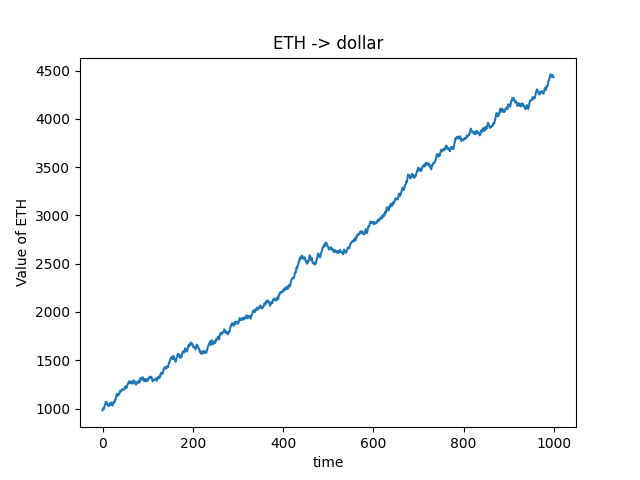
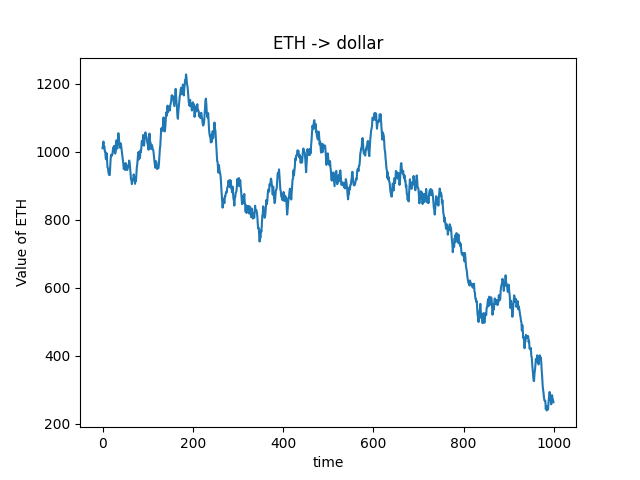
add start sim

diff --git a/simulations/sim1.py b/simulations/sim1.py
@@ -6,56 +6,66 @@ from cadCAD import configs
 import pandas as pd
 import matplotlib.pyplot as plt
 import dataframe_image as dfi
+import csv
 
 exp = Experiment()
 
 genesis_states = {
-    'usr1': 10,
-    'usr2': 10,
-    'usr3': 10,
-    'usr4': 10,
-    'usr5': 10
+    'trader': {'eth':100,'noi':100},
+    'pool_eth': 100000,
+    'pool_noi': 10000000,
 }
 
 
-def update_A(params, step, sH, s, _input):
-    y = 'box_A'
-    add_to_A = 0
-    if (s['box_A'] > s['box_B']):
-        add_to_A = -1
-    elif (s['box_A'] < s['box_B']):
-        add_to_A = 1
-    x = s['box_A'] + add_to_A
-    return (y, x)
+eth_dollar = []
 
+with open('dataset/eth_dollar.csv', 'r') as csvfile:
+    eth_dollar = list(csv.reader(csvfile))[0]
+    eth_dollar = [float(i) for i in eth_dollar]
 
-def update_B(params, step, sH, s, _input):
-    y = 'box_B'
-    add_to_B = 0
-    if (s['box_B'] > s['box_A']):
-        add_to_B = -1
-    elif (s['box_B'] < s['box_A']):
-        add_to_B = 1
-    x = s['box_B'] + add_to_B
-    return (y, x)
+# print(eth_dollar)
+params = {
+    'eth_dollar': eth_dollar,
+}
 
+# print(params)
+
+def get_current_timestep(cur_substep, previous_state):
+    return 1
+    # if cur_substep == 1:
+    #     return previous_state['timestep']+1
+    # return previous_state['timestep']
+
+def update_trader(params, substep, state_history,  previous_state, policy_input):
+    y = 'trader'
+    eth_value = params['eth_dollar'][get_current_timestep(substep, previous_state)]
+    eth_value = 0
+    noi_value = 0
+    if eth_value > 1000:
+        eth_value = eth_value - 1
+        noi_value = noi_value + 1
+    else:
+        eth_value = eth_value + 1
+        noi_value = noi_value - 1
+    return (y, [previous_state['trader']['pool_eth'] + eth_value, previous_state['trader']['pool_noi'] + noi_value])
 
 partial_state_update_blocks = [
     {
-        'policies': {  # We'll ignore policies for now
+        'policies': {  
         },
         'variables': {  # The following state variables will be updated simultaneously
-            'box_A': update_A,
-            'box_B': update_B
+            'trader': update_trader
         }
     }
 ]
 
 sim_config_dict = {
-    'T': range(10),
+    'T': range(50),
     'N': 1,
-    # 'M': {}
+    'M': {'lol': 1}, 
 }
+
+
 
 c = config_sim(sim_config_dict)
 # # # # # # # # # # # # # # # # # # # # # # # # # # # # # # # # # # # # # # # # # # # # # # # #
@@ -81,17 +91,17 @@ simulation_result = pd.DataFrame(raw_system_events)
 simulation_result.set_index(['subset', 'run', 'timestep', 'substep'])
 
 print(simulation_result)
-# plt.plot(simulation_result)
-# plt.show()
-# plt.savefig('lol.png')
+plt.plot(simulation_result)
+plt.show()
+plt.savefig('lol.png')
 
 plt.figure()
-plt.plot(simulation_result)
-# plt.show()
+# plt.plot(simulation_result)
+# # plt.show()
 plt.savefig('test.png')
 
-simulation_result.plot('timestep', ['box_A', 'box_B'], grid=True,
-                       colormap='RdYlGn',
-                       xticks=list(
-                           simulation_result['timestep'].drop_duplicates()),
-                       yticks=list(range(1+(simulation_result['box_A']+simulation_result['box_B']).max())))
+# simulation_result.plot('timestep', ['box_A', 'box_B'], grid=True,
+#                        colormap='RdYlGn',
+#                        xticks=list(
+#                            simulation_result['timestep'].drop_duplicates()),
+#                        yticks=list(range(1+(simulation_result['box_A']+simulation_result['box_B']).max())))

diff --git a/simulations/generate_eth_value.py b/simulations/generate_eth_value.py
@@ -1,18 +1,21 @@
 import numpy as np
 import matplotlib.pyplot as plt
 import csv
+
 time = np.arange(1000)
+
 def ETH_Dollar_value():
-    delta = np.random.random(1000)*50-22
+    delta = np.random.random(1000)*50-25
     init = 1000
     out = np.zeros(1000)
     out[0] = init + delta[0]
     for i in range(1, 1000):
         out[i] = out[i-1] + delta[i]
     return out
+
 if __name__ == "__main__":
     eth_dollar = ETH_Dollar_value()
-    with open('data/eth_dollar.csv', 'w') as csvfile:
+    with open('dataset/eth_dollar.csv', 'w') as csvfile:
         writer = csv.writer(csvfile)
         writer.writerow(eth_dollar)
     plt.figure()
